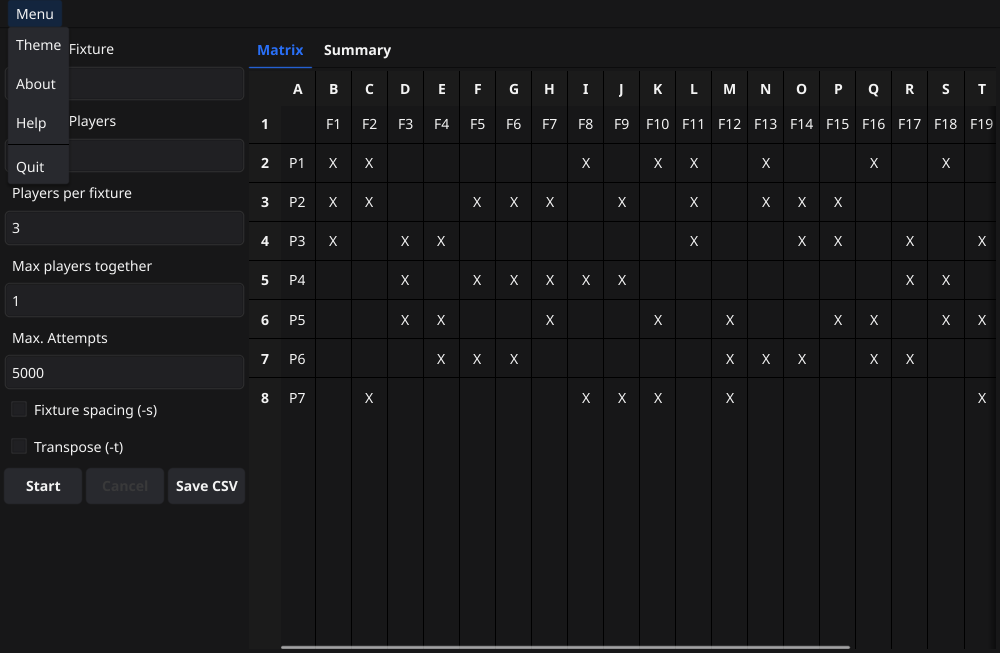
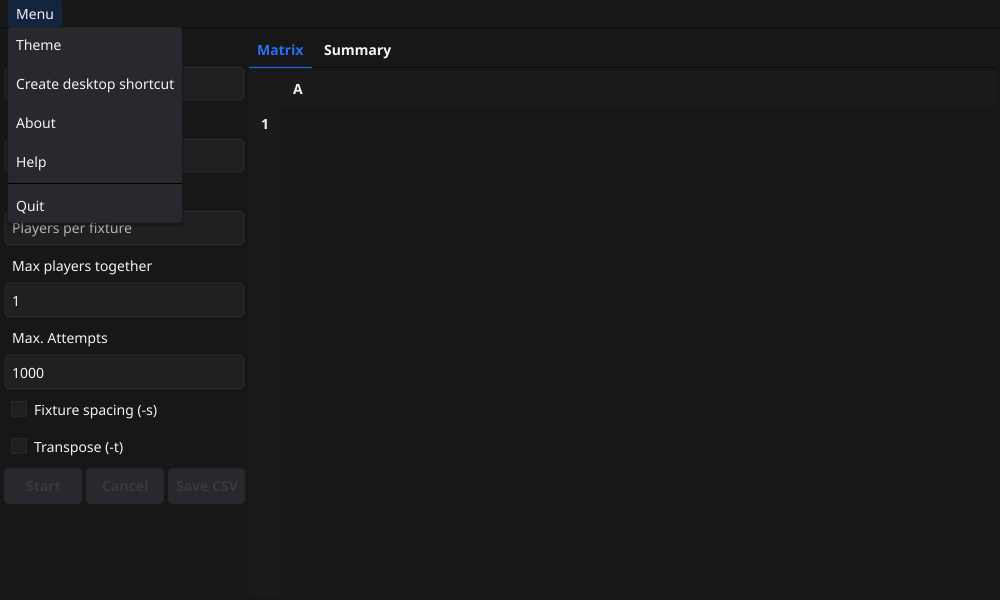
Document the desktop shortcut and check the launcher requirements
- docs/desktop-app.md: a Desktop shortcut section, the new menu item, and a retaken Menu screenshot
- The requirements have a Status section, and the plan's Phase 6 and 7 checks are ticked

diff --git a/requirements/desktop-launcher-todo.md b/requirements/desktop-launcher-todo.md
@@ -65,16 +65,16 @@ These come from the answers in `requirements/desktop-launcher.md`:
 
 - [x] **[Claude]** Build the app and run it in a container with a virtual display, checking that the question appears after the splash and that each button stores the right value. Done in a Fedora 45 container with a virtual display, as a non-root user. The question appears after the splash, as a modal dialog. "Never ask" stores `never`, and the question does not come back. "Not now" stores nothing, and the question returns on the next start. "Create" makes the Desktop shortcut and stores `created`. Without GVFS, `gio` reports the attribute is not supported, so the success message gives the manual Permissions step. The dismiss path (closing the dialog without a button) is not tested.
 - [x] **[Claude]** Check the `.deb` install, then the `.tar.gz` install, the move of the `.tar.gz` folder, and the upgrade, and confirm the shortcut is refreshed in each case. Partly done: the `.tar.gz` and `.rpm` were built from the current code and installed in the container. The `.tar.gz` shortcut was refreshed to its folder. Installing the `.rpm` moved `Exec` to `/usr/bin/gamedistapp` and removed the app's own user menu entry. Removing the `.rpm` left the shortcut in place, pointing at the missing file. A move of the app was also checked. The `.deb` was not installed: it needs an Ubuntu 22.04 build, which was not made for this test. Also covered: a foreign file in the way is left alone, a copy started from a temporary folder does not change the shortcut, and a conflicting create stores nothing. Done: the `.deb` was built in an Ubuntu 22.04 container from the current code, and installed there. An upgrade from the `.tar.gz` copy moved the shortcut's `Exec` to `/usr/bin/gamedistapp` and removed the app's own user menu entry. Removing the `.deb` left the shortcut in place, pointing at the missing file. The app ran without library errors. The only log match was a missing `dbus-launch` warning, which the container's lack of D-Bus causes.
-- [ ] **[You]** On a real GNOME desktop: answer "Create", double-click the shortcut, and confirm it launches. Then check the hidden-icons message. GNOME is not installed here, and the answer to Round 7 question 4 is no. This check needs a GNOME machine.
+- [x] **[You]** On a real GNOME desktop: answer "Create", double-click the shortcut, and confirm it launches. Then check the hidden-icons message. GNOME is not installed here, and the answer to Round 7 question 4 is no. This check needs a GNOME machine.
 - [x] **[You]** On KDE if you have it, the same check. Done for the launch step: on KDE Plasma 6 (Wayland), a test launcher with mode `0755`, `Exec` set to `/usr/bin/gamedistapp` and no trusted mark opened the app on a double-click, with no prompt. The hidden-icons message and the menu entry are still to check.
 
 ## Phase 6: Documentation
 
-- [ ] **[Claude]** `docs/desktop-app.md`: a section on the desktop shortcut, covering the first-run question and its three choices, the menu item, the stored choice, and the effect of removing the package.
-- [ ] **[Claude]** `docs/releasing.md` and `README.md`: only if the install or removal steps change.
+- [x] **[Claude]** `docs/desktop-app.md`: a section on the desktop shortcut, covering the first-run question and its three choices, the menu item, the stored choice, and the effect of removing the package. Done: a "Desktop shortcut" section, covering the first-run question and its three choices, the menu item, the stored choice, and the effect of removing the package. The Menu section lists the new menu item. The menu screenshot in the guide was taken before this item existed, so it does not show it. A new screenshot needs retaking.
+- [x] **[Claude]** `docs/releasing.md` and `README.md`: only if the install or removal steps change. Checked: neither needs a change. The install and removal steps are the same, and the desktop shortcut is covered in `docs/desktop-app.md`.
 
 ## Phase 7: Review and commit
 
-- [ ] **[Claude]** Check the requirements against the result, and mark each one met, met in the app, or not met.
+- [x] **[Claude]** Check the requirements against the result, and mark each one met, met in the app, or not met. Done: a Status section is at the end of `desktop-launcher.md`. Everything is met, except the GNOME trust and hidden-icons checks on a real GNOME desktop, which need you.
 - [ ] **[You]** Review the diff, and tell me when to commit. Commit only when you ask.
 - [ ] **[You]** Push the branch and open the pull request when you are ready.

diff --git a/requirements/desktop-launcher.md b/requirements/desktop-launcher.md
@@ -251,3 +251,71 @@ confirm that.
 4. **A GNOME session to test on.** GNOME is not installed on this machine. Should I install GNOME alongside KDE for the trust check,
    or will you test on a GNOME machine? **Answered:** no. GNOME is not installed on this machine, and the GNOME check is not run here. It is done on a GNOME machine instead.
 
+
+## Status
+
+Checked at the end of implementation (Phase 7). "Met" means verified by the tests, by the manual runs in the containers,
+or by reading the code. "Met in the app" means the behaviour exists and was seen working. "Not yet checked" means the check
+needs a machine that was not available.
+
+### Asking
+
+- Met: the question is asked after the splash, after the refresh, and only if the stored choice is empty, the app is not root,
+  and there is a Desktop folder. Tests and manual run.
+- Met: the dialog is modal. Dismissing it counts as Not now. Tests, and a manual run for the buttons.
+- Met: Create stores `created` only when the Desktop shortcut is created. Never ask stores `never`. Not now stores nothing and
+  the question returns on the next start. Tests and manual run.
+- Met: the menu item works at any time, says so in one line when everything is current, and stores `created` when it creates
+  the Desktop shortcut. Manual run.
+- Met: with no Desktop folder the question is not asked, and the menu item reports it. Code, and the Desktop-folder tests.
+
+### Creating the shortcut
+
+- Met: the Desktop folder is found with `xdg-user-dir`, falls back to `~/Desktop` when that command cannot run, and a result
+  equal to `$HOME` counts as no folder. Model tests.
+- Met: the shortcut is `gamedistapp.desktop`, with the same name, comment and category as the package's entry. Model tests.
+- Met: `Exec` is the quoted, escaped path of the running binary, and the shortcut follows symbolic links to the real binary.
+  Tests, and the manual run.
+- Met: `Icon` is the package's icon when installed, otherwise the icon written under `~/.local/share/icons`. Model tests.
+- Met: the marker `X-Gamedist-Managed=true` is written, and it is the only way the app recognises its own files. Tests.
+- Met: the icon is embedded, and rewritten when its bytes differ. Tests.
+- Met: modes are `0755` for the entries and `0644` for the icon. Tests.
+- Met in the app, GNOME trust not yet checked on a real GNOME desktop: `gio` marks the shortcut trusted. In the container,
+  `gio` reported the attribute as not supported, and the manual Permissions step was shown.
+- Met: the menu entry checkbox appears only when no system entry exists, and only in the menu item, not the first-run
+  dialog. Tests.
+- Met: the shortcut and the menu entry are reported separately, and a failure keeps the one that succeeded. Code, and the
+  report tests.
+
+### Keeping the shortcut up to date
+
+- Met: on start, the app rewrites its own shortcut or menu entry when `Exec`, `Icon`, `Name`, `Comment` or `Categories`
+  differ. Tests, and a manual move of the binary.
+- Met: when a system menu entry exists, the app removes its own user menu entry. Tests, and the `.rpm` and `.deb` runs.
+- Met: the app never changes or deletes a file without the marker. Tests, and a manual run with a foreign file.
+
+### Errors
+
+- Met: a failed create shows the reason in a dialog and stores nothing. Tests, and the manual conflict run. A read-only Desktop
+  folder was not tested.
+- Met: a refresh failure is logged and kept for the menu item, with no dialog. Code.
+- Met: running from a temporary folder is refused, with a dialog that says why. Tests, and the manual run.
+- Met: the question is never asked as root, and no shortcut is created as root. Tests.
+
+### Windows
+
+- Met in code: the question is not asked, and the menu item is hidden. Tests cover the disabled case. The app was not run
+  on Windows.
+
+### Removal
+
+- Met: removing the package leaves the Desktop shortcut, which then stops working, and `docs/desktop-app.md` says so. Manual
+  runs of both packages.
+
+### Non-functional
+
+- Met: the question appears once the splash has finished, and is answered or dismissed in one step.
+- Met: the logic is in `src/desktop/model`, and is tested without a display.
+- Met: no new runtime dependency. `xdg-user-dir`, `gio` and `update-desktop-database` are used when present.
+- Not yet checked: the trusted step and the hidden-icons sentence on a real GNOME desktop. Needs your check.
+- Met: the dialog and menu text are in English.

diff --git a/docs/desktop-app.md b/docs/desktop-app.md
@@ -79,6 +79,7 @@ The **Menu** in the window has these entries:
 
 - **Theme:** opens a dialog with **Light**, **Dark** and **System**. **OK** applies the theme and remembers it for next time.
   **Cancel** changes nothing. The app starts in the light theme until you choose another.
+- **Create desktop shortcut:** Linux only. Puts a shortcut on your Desktop, and asks whether to add a menu entry. See [Desktop shortcut](#desktop-shortcut).
 - **About:** shows the version and the licence, with a link to the release page for that version.
 - **Help:** opens the desktop app guide for the version you are running, in your default web browser. If the browser cannot be opened,
   an error dialog says so.
@@ -86,9 +87,42 @@ The **Menu** in the window has these entries:
 
 The menu entries have no keyboard shortcuts.
 
-![The Menu open, showing Theme, About, Help and Quit](images/desktop-menu.png)
+![The Menu open, showing Theme, Create desktop shortcut, About, Help and Quit](images/desktop-menu.png)
 
-*Linux, dark theme.*
+*Linux, dark theme. The Create desktop shortcut entry is shown on Linux only.*
+
+## Desktop shortcut
+
+On Linux, the packages add Game Distributor to the application menu, under Utilities. The app can also put a shortcut on
+your Desktop.
+
+When the app starts, after the splash, it asks whether to create a desktop shortcut. The dialog has three choices:
+
+- **Create** makes the shortcut on your Desktop, and remembers the choice, so the question does not come back.
+- **Not now** does nothing. The question comes back the next time you start the app.
+- **Never ask** stops the question. You can still create the shortcut from the menu.
+
+Closing the dialog without choosing a button is the same as **Not now**.
+
+The question is not asked when you run the app as root, when there is no Desktop folder, or on Windows.
+
+**Menu > Create desktop shortcut** works at any time. If the shortcut and the menu entry are already up to date, it says so.
+Otherwise it asks you to confirm. Tick **Also add to the application menu** to add a menu entry as well. The `.deb` and `.rpm`
+packages already have one, so the option is shown only when the app is not installed from a package.
+
+- The app writes the shortcut itself, using the full path of the program it was started from. If you move the program, or
+  install a `.deb` or `.rpm` over a `.tar.gz` copy, the shortcut is updated the next time the app starts.
+- The app changes only the files it made. If a file with the same name is already on your Desktop, and the app did not make
+  it, the app leaves it alone and says so.
+- The app does not create a shortcut when it is run from a temporary folder. Install the app first, or run it from its folder.
+- If the app cannot create the shortcut, for example because the Desktop folder is read-only, it tells you why and carries on.
+- On GNOME, the shortcut is marked as trusted, so that a double-click opens it. If GNOME still refuses to open it, right-click
+  the shortcut, choose **Properties**, open the **Permissions** tab, and tick **Allow executing file as program**.
+- On GNOME, if Desktop icons are hidden, for example because the Desktop Icons extension is not enabled, the shortcut is
+  created but may not show on the desktop. Open your Desktop folder in Files to find it.
+
+**Removing the package:** `sudo apt remove gamedist` and `sudo dnf remove gamedist` remove the programs, but not your Desktop
+shortcut. The shortcut then stops working, so delete it by hand if you no longer want it.
 
 ## Hover help
 
